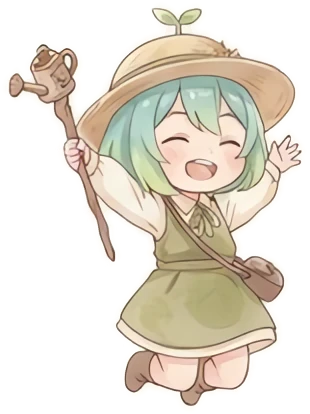
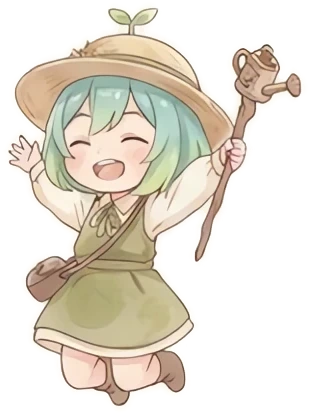
sprout v0.9: 8-frame run cycle, consistent facing, brake/turn/start motion, AUTO button moved
Claude-Session: https://claude.ai/code/session_01D8ERGz5r4FPkuXoKDYhqRw

diff --git a/sprout/index.html b/sprout/index.html
@@ -25,7 +25,7 @@ canvas{display:block;background:#cfe3c0}
 #bJ{width:66px;height:66px;right:124px;bottom:14px;font-size:30px}
 #bS{width:62px;height:62px;right:118px;bottom:92px;font-size:26px;background:rgba(140,200,120,.45)}
 #bF{width:62px;height:62px;right:34px;bottom:124px;font-size:26px;background:rgba(243,166,181,.45)}
-#bAuto{width:54px;height:40px;right:14px;top:112px;font-size:13px;border-radius:12px;z-index:6;position:absolute}
+#bAuto{width:54px;height:40px;right:78px;top:64px;font-size:13px;border-radius:12px;z-index:6;position:absolute}
 .touch #bAuto{display:flex}
 #bAuto.act{background:rgba(120,200,255,.6);border-color:#bfe6ff}
 .cd{position:absolute;inset:-2px;border-radius:50%;pointer-events:none}
@@ -64,7 +64,7 @@ function fit(){
 addEventListener('resize',fit);fit();
 
 /* ---------- 이미지 ---------- */
-const IMG={};const NAMES=['sprout','hedgehog','fox','bunny','owl','frog','sheep','baker','sprite_e0','sprite_e1','sprite_e2','sprite_e3','boss','bg_forest','p_idle','p_run','p_swing','p_jump','p_cast','fx_leaf','fox_idle','fox_shoot','bunny_idle','bunny_heal','hedgehog_idle','hedgehog_atk','sheep_idle','sheep_atk','ground','plat','bg_village','bg_marsh','m_e0','m_e1','m_e2','m_e3','boss2','it_bread','it_clover','it_mush','it_star','it_twig','it_seed','it_chest','it_jar','owl_idle','owl_cast','frog_idle','frog_play','baker','rival','thief','castle_me','castle_foe','fg1','fg2','fg3','vfx_slash','vfx_heal','vfx_hit','vfx_lvup','vfx_star','vfx_leaf','fox_w1','fox_w2','fox_w3','fox_a','sheep_w1','sheep_w2','sheep_w3','sheep_a','bunny_w1','bunny_w2','bunny_w3','bunny_a','owl_w1','owl_w2','owl_w3','owl_a','dmg_n','dmg_c','board','chest','trophy','p_run2','p_k1','p_k2','p_k3','p_k4','p_k5'];
+const IMG={};const NAMES=['sprout','hedgehog','fox','bunny','owl','frog','sheep','baker','sprite_e0','sprite_e1','sprite_e2','sprite_e3','boss','bg_forest','p_idle','p_run','p_swing','p_jump','p_cast','fx_leaf','fox_idle','fox_shoot','bunny_idle','bunny_heal','hedgehog_idle','hedgehog_atk','sheep_idle','sheep_atk','ground','plat','bg_village','bg_marsh','m_e0','m_e1','m_e2','m_e3','boss2','it_bread','it_clover','it_mush','it_star','it_twig','it_seed','it_chest','it_jar','owl_idle','owl_cast','frog_idle','frog_play','baker','rival','thief','castle_me','castle_foe','fg1','fg2','fg3','vfx_slash','vfx_heal','vfx_hit','vfx_lvup','vfx_star','vfx_leaf','fox_w1','fox_w2','fox_w3','fox_a','sheep_w1','sheep_w2','sheep_w3','sheep_a','bunny_w1','bunny_w2','bunny_w3','bunny_a','owl_w1','owl_w2','owl_w3','owl_a','dmg_n','dmg_c','board','chest','trophy','p_run2','p_k1','p_k2','p_k3','p_k4','p_k5','p_rc0','p_rc1','p_rc2','p_rc3','p_rc4','p_rc5','p_rc6','p_rc7'];
 let loaded=0;
 NAMES.forEach(n=>{const i=new Image();i.onload=()=>{loaded++};i.onerror=()=>{loaded++};i.src='img/'+n+(n.startsWith('bg_')?'.jpg':'.webp')+'?v=5';IMG[n]=i;});
 
@@ -283,6 +283,11 @@ function updPlayer(dt){
  if(p.dashT>0){p.dashT-=dt;p.vx=p.face*760*(p.dashT>.05?1:.5);p.vy=Math.min(p.vy,p.onG?p.vy:40);}
  const accel=p.onG?2600:1500,maxV=hurt?0:(p.dashT>0?760:(p.atkT>0&&p.onG?60:260));
  let dir=(K.right?1:0)-(K.left?1:0);if(hurt)dir=0;
+ if(p.onG&&!hurt&&p.atkT<=0){
+  if(!dir&&Math.abs(p.vx)>180&&!(p.brakeT>0)&&!(p.dashT>0)){p.brakeT=.16;p.brakeD=Math.sign(p.vx);dust(p.x+p.brakeD*14,p.y,3);p.sq={t:.12,sx:1.08,sy:.94}}
+  if(dir&&Math.abs(p.vx)>140&&Math.sign(p.vx)!==dir&&!(p.turnT>0)){p.turnT=.12;dust(p.x,p.y,3);p.sq={t:.1,sx:.9,sy:1.07}}
+  if(dir&&Math.abs(p.vx)<20&&!(p.startT>0)){p.startT=.1;p.rph=.13;dust(p.x-dir*10,p.y,2)}}
+ if(p.brakeT>0)p.brakeT-=dt;if(p.turnT>0)p.turnT-=dt;if(p.startT>0)p.startT-=dt;
  if(dir){p.vx+=dir*accel*dt;if(p.atkT<=0)p.face=dir;}else{p.vx*=p.onG?Math.pow(.0005,dt):Math.pow(.3,dt)}
  p.vx=Math.max(-maxV,Math.min(maxV,p.vx));if(Math.abs(p.vx)>maxV&&maxV===0)p.vx*=.9;
  // 점프 (코요테 타임 0.08초)
@@ -297,7 +302,7 @@ function updPlayer(dt){
  if(ST.lock){p.x=Math.max(ST.lock.a+20,Math.min(ST.lock.b-20,p.x))}
  const fallV=p.vy;const was=p.onG;p.onG=landOn(p,prevY);if(p.onG&&!was&&ST.intro&&!ST.introLanded){ST.introLanded=1;vfx('vfx_lvup',p.x,p.y-70,{s0:.3,s1:.5,life:.9,a:.7});shake(3);SFX.big();dust(p.x,p.y,10)}if(p.onG&&!was){dust(p.x,p.y,6);p.sq={t:.14,sx:1.18,sy:.84};if(fallV>300)play('impactSoft_heavy_000',.16,1.4);if(fallV>500){shake(2)}}
  if(p.onG&&dir&&Math.sign(p.vx)!==dir&&Math.abs(p.vx)>120&&Math.random()<.5)dust(p.x,p.y,1);
- if(p.onG&&Math.abs(p.vx)>200){p.stepT=(p.stepT||0)-dt;if(p.stepT<=0){p.stepT=.24;dust(p.x-p.face*12,p.y,3)}}
+ if(p.onG&&Math.abs(p.vx)>30){const N=RCN();if(N){const prev=Math.floor((p.rph||0)*N)%N;p.rph=((p.rph||0)+Math.abs(p.vx)*dt/150)%1;const fr=Math.floor(p.rph*N)%N;if(fr!==prev&&(fr===0||fr===N/2)&&Math.abs(p.vx)>200){dust(p.x-p.face*10,p.y,2);if(!play('impactSoft_medium_000',.05,1.6+Math.random()*.2)){}}}else if(Math.abs(p.vx)>200){p.stepT=(p.stepT||0)-dt;if(p.stepT<=0){p.stepT=.24;dust(p.x-p.face*12,p.y,3)}}}
  if(p.sq&&p.sq.t>0)p.sq.t-=dt;
  // 공격 콤보 (3단 + 공중 + 올려치기)
  if(p.atkT>0)p.atkT-=dt;
@@ -762,11 +767,14 @@ function sprite(img,x,y,h,face,opt){
  if(opt.flash>0){ctx.globalCompositeOperation='lighter';ctx.globalAlpha=Math.min(.7,opt.flash);ctx.drawImage(img,-w/2,-h,w,h);}
  ctx.restore();
 }
+function RCN(){if(RCN.n!=null)return RCN.n;let n=0;while(n<8&&IMG['p_rc'+n]&&IMG['p_rc'+n].naturalWidth)n++;if(n<6)return 0;return (document.readyState==='complete')?(RCN.n=n):n}
 function drawPlayer(cx){
  const p=ST.pl,x=p.x-cx;const t=p.anim;
  let dy=0,sx=1,sy=1,rot=0,img=IMG.p_idle;
  const RF=[IMG.p_r1,IMG.p_r2,IMG.p_r3,IMG.p_r4];
- if(p.state==='run'){img=IMG.p_run2&&IMG.p_run2.naturalWidth?IMG.p_run2:IMG.p_run;const ph=t*13;const c=Math.sin(ph);dy=-Math.abs(c)*9;sy*=1+Math.abs(c)*.03-(1-Math.abs(c))*.035;sx*=1-Math.abs(c)*.015+(1-Math.abs(c))*.03;rot+=Math.sin(ph*.5)*.035}
+ const N=RCN();if(p.state==='run'&&N){img=IMG['p_rc'+(Math.floor((p.rph||0)*N)%N)];rot+=.02}
+ else if(p.state==='idle'&&p.brakeT>0){const k=p.brakeT/.16;img=N?IMG.p_rc0:IMG.p_idle;rot=-p.brakeD*.1*k;sx*=1+.05*k;sy*=1-.04*k}
+ else if(p.state==='run'){img=IMG.p_run2&&IMG.p_run2.naturalWidth?IMG.p_run2:IMG.p_run;const ph=t*13;const c=Math.sin(ph);dy=-Math.abs(c)*9;sy*=1+Math.abs(c)*.03-(1-Math.abs(c))*.035;sx*=1-Math.abs(c)*.015+(1-Math.abs(c))*.03;rot+=Math.sin(ph*.5)*.035}
  else if(p.state==='idle'){sy=1+Math.sin(t*3)*.012}
  else if(p.state==='jump'){img=p.vy<120?IMG.p_jump:IMG.p_run;sy*=p.vy<0?1.05:.98;sx*=p.vy<0?.97:1.02;rot+=Math.max(-.08,Math.min(.1,p.vy/5000))}
  else if(p.state==='climb'){img=IMG.p_jump;rot=Math.sin(p.y*.05)*.05}
@@ -784,7 +792,7 @@ function drawPlayer(cx){
  if(p.atkT>0&&p.state!=='climb'){drawSlash(p,x)}
  if(p.dashT>0){ST.ghost=ST.ghost||[];if(!ST.ghostT||ST.t-ST.ghostT>.035){ST.ghostT=ST.t;ST.ghost.push({img,x:p.x,y:p.y,face:p.face,life:.18})}}
  if(ST.ghost){for(const g of ST.ghost){g.life-=1/60;if(g.life>0&&g.img&&g.img.naturalWidth){ctx.save();ctx.globalAlpha=g.life*2.2;ctx.globalCompositeOperation='lighter';sprite(g.img,g.x-(p.x-x),g.y,0,g.face,{k:.58,noShadow:1,alpha:g.life*1.6});ctx.restore()}}ST.ghost=ST.ghost.filter(g=>g.life>0)}
- sprite(img&&img.naturalWidth?img:IMG.sprout,x,p.y,110,1,{k:img&&img.naturalWidth?.58:0,dy,sx:sx*vfs,sy2:sy,rot,alpha:blink?.62:1,flash:p.hurtT>.12?.28:0});
+ const isRC=img&&img.src&&img.src.indexOf('p_rc')>0;sprite(img&&img.naturalWidth?img:IMG.sprout,x,p.y,110,1,{k:img&&img.naturalWidth?(isRC?.43:.58):0,dy:dy+(isRC?4:0),sx:sx*vfs,sy2:sy,rot,alpha:blink?.62:1,flash:p.hurtT>.12?.28:0});
  if(p.skillT>0&&IMG.fx_leaf.naturalWidth){ctx.save();ctx.globalAlpha=Math.min(1,p.skillT*3);sprite(IMG.fx_leaf,x+p.face*60,p.y-20,0,p.face,{k:.6+(0.5-p.skillT),noShadow:1,rot:ST.t*4});ctx.restore()}
  nameTag(x,p.y+18,(SV.job?'꽃의 기사':'새싹 소녀')+(SV.wpn?' +'+SV.wpn:''),SV.job?'#ffd86b':(SV.wpn>=10?'#ffd86b':'#fbf5e6'));
 }
@@ -955,7 +963,7 @@ function drawTitle(dt){
  button(W-232,H-58,104,40,'📖 도감',()=>{scene='book'},'#cfe7b8');
  button(W-120,H-58,104,40,SV.mute?'🔇 음악':'🎵 음악',()=>{SV.mute=!SV.mute;save();if(SV.mute)bgmStop();else bgmStart()},'#e7e0f6');
  btns.unshift({x:0,y:0,w:W,h:H,cb:startGame});
- ctx.fillStyle='rgba(58,41,30,.7)';ctx.font='bold 12px system-ui';ctx.fillText('v0.8.2 · 육성 시험판 · 효과음 Kenney (CC0)',14,H-14);
+ ctx.fillStyle='rgba(58,41,30,.7)';ctx.font='bold 12px system-ui';ctx.fillText('v0.9 · 육성 시험판 · 효과음 Kenney (CC0)',14,H-14);
  if(loaded<NAMES.length){ctx.fillStyle='#fff';ctx.font='bold 13px system-ui';ctx.fillText('그림 불러오는 중… '+loaded+'/'+NAMES.length,14,24)}
  // 꽃잎 (천천히)
  for(let i=0;i<22;i++){const sp=18+(i%5)*6,x=((i*137+titleT*sp*1.4)%(W+80))-40,y=((i*89+titleT*(sp+10))%(H+60))-30;ctx.save();ctx.translate(x,y);ctx.rotate(titleT*.8+i);ctx.fillStyle=i%3?'rgba(255,214,228,.75)':'rgba(255,240,200,.7)';ctx.beginPath();ctx.ellipse(0,0,6,3,0,0,7);ctx.fill();ctx.restore()}
